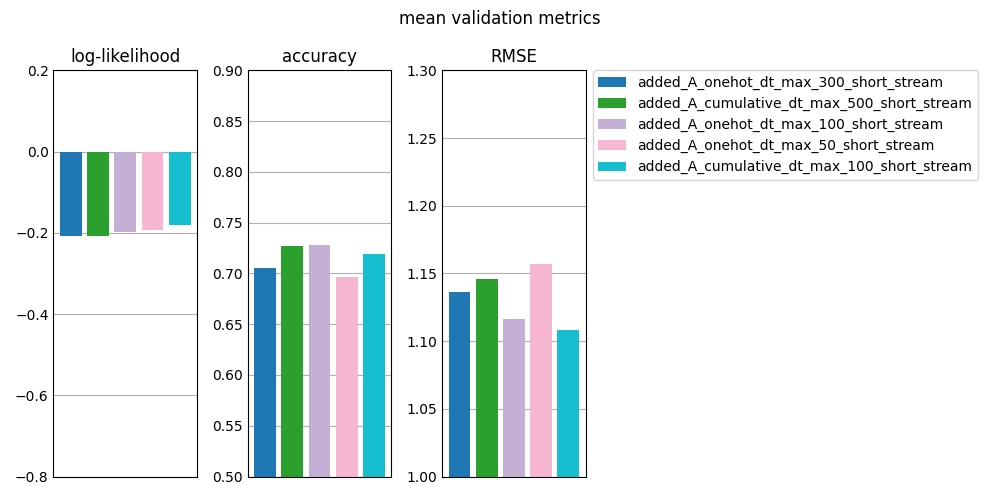
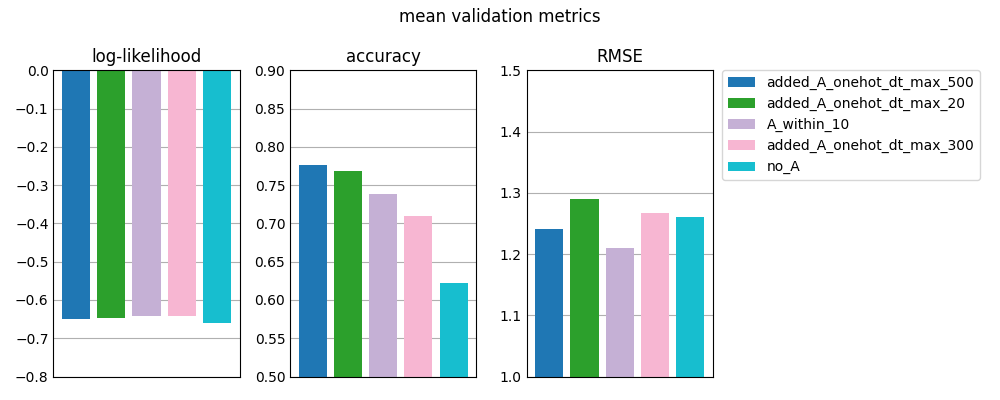
graphs

diff --git a/plot_6850_res.py b/plot_6850_res.py
@@ -15,7 +15,7 @@ def bar():
     metrics_data = {"ll" : [], "accuracy" : [], "RMSE": []}
     
     # read files from 911_results
-    files = glob.glob("911_results/*.txt")
+    files = glob.glob("911_results (less overfitting)/*.txt")
     file_names = [os.path.basename(file)[4:-4] for file in files] # groups for plotting
     print(file_names)
     for file in files:
@@ -28,11 +28,14 @@ def bar():
             # print(match)
             for metric, idx in zip(metrics, range(3)):
                 metrics_data[metric].append(float(match[idx]))
-                
+    
     # select top 3-5 most likely options (according to log likelihood) for ease of plotting
-    top_n = 5
+    top_n = 4
+    n = 5
+    print(file_names.index("no_A"))
     # sorts in ascending order
-    indices = np.argsort(np.array(metrics_data[metrics[0]]))[-top_n:]
+    top_indices = np.argsort(np.array(metrics_data[metrics[0]]))[-top_n:]
+    indices = np.append(top_indices, file_names.index("no_A"))
     selected_filenames = np.array(file_names)[indices]
     selected_ll = np.array(metrics_data[metrics[0]])[indices]
     selected_acc = np.array(metrics_data[metrics[1]])[indices]
@@ -44,37 +47,49 @@ def bar():
     for ax in (ax1, ax2, ax3):
         ax.set_xticks([])
     fig.suptitle("mean validation metrics")
-    ax1.bar(range(top_n), selected_ll, label=selected_filenames, color=cmap()(np.linspace(0.0, 0.9, top_n)))
-    ax1.set(ylim=(-0.8, 0.2))
+    ax1.bar(range(n), selected_ll, label=selected_filenames, color=cmap()(np.linspace(0.0, 0.9, n)))
+    ax1.set(ylim=(-0.8, 0))
     ax1.set_title("log-likelihood")
-    ax2.bar(range(top_n), selected_acc, label=selected_filenames, color=cmap()(np.linspace(0.0, 0.9, top_n)))
+    ax2.bar(range(n), selected_acc, label=selected_filenames, color=cmap()(np.linspace(0.0, 0.9, n)))
     ax2.set(ylim=(0.5, 0.9))
     ax2.set_title("accuracy")
-    ax3.bar(range(top_n), selected_rmse, label=selected_filenames, color=cmap()(np.linspace(0.0, 0.9, top_n)))
-    ax3.set(ylim=(1.0, 1.3))
+    ax3.bar(range(n), selected_rmse, label=selected_filenames, color=cmap()(np.linspace(0.0, 0.9, n)))
+    ax3.set(ylim=(1.0, 1.5))
     ax3.set_title("RMSE")
     ax3.legend(bbox_to_anchor=(1.05, 1), loc='upper left', borderaxespad=0)
-    fig.set_size_inches(10, 5)
+    fig.set_size_inches(10, 4)
     fig.tight_layout()
     fig.savefig("comparison.png", dpi = 100)
-# bar()
+bar()
 
 def plotA():
     # 75 x 75 matrix representing node (zipcode areas) interactions on 911 calls
-    A=np.load("911_network_structure/A_cumulative_dt_max_20.npy")
-    W=np.load("911_network_structure/W_cumulative_dt_max_20.npy")
+    A=np.load("911_network_structure/A_cumulative_dt_max_500.npy")
+    W=np.load("911_network_structure/W_cumulative_dt_max_500.npy")
     # Info we might want to collect:
     # some measure of sparsity, like average degree, or a heatmap
     # size of connected components?
-    print(A*W)
-    # TODO: set x and y axis to zipcode number?
+    AxW = A*W
+    print(AxW)
+    # TODO: set x and y axis to zipcode number
     fr = open("data/zip_mapping.pkl", "rb")
     node_to_zip = pkl.load(fr)
-    print(node_to_zip)
+    # print(node_to_zip)
+    print("influential zipcodes")
+    # print(np.transpose((AxW > 0.10).nonzero()))
+    for x, y in np.transpose((AxW > 0.10).nonzero()):
+        print(f"{node_to_zip[x+1]},{node_to_zip[y+1]}")
+    # returns
+    # 19046,18041
+    # 19090,19475
+    # 19426,19004
+    # 19462,19492
+    # 19128,18054
+    # 18915,19041
     zips = []
     for i in range(A.shape[0]):
         zips.append(node_to_zip[i+1])
-    sns.heatmap(data=(A*W), xticklabels=zips, yticklabels=zips, annot=False)
+    sns.heatmap(data=(AxW), xticklabels=zips, yticklabels=zips, annot=False)
     fig = plt.gcf()
     fig.set_size_inches(6, 6)
     plt.title("Interaction between zipcodes")
@@ -83,4 +98,4 @@ def plotA():
     plt.xlabel("Receiving node")
     plt.tight_layout()
     fig.savefig("implic_net_struct.png", dpi=150)
-plotA()
+# plotA()
